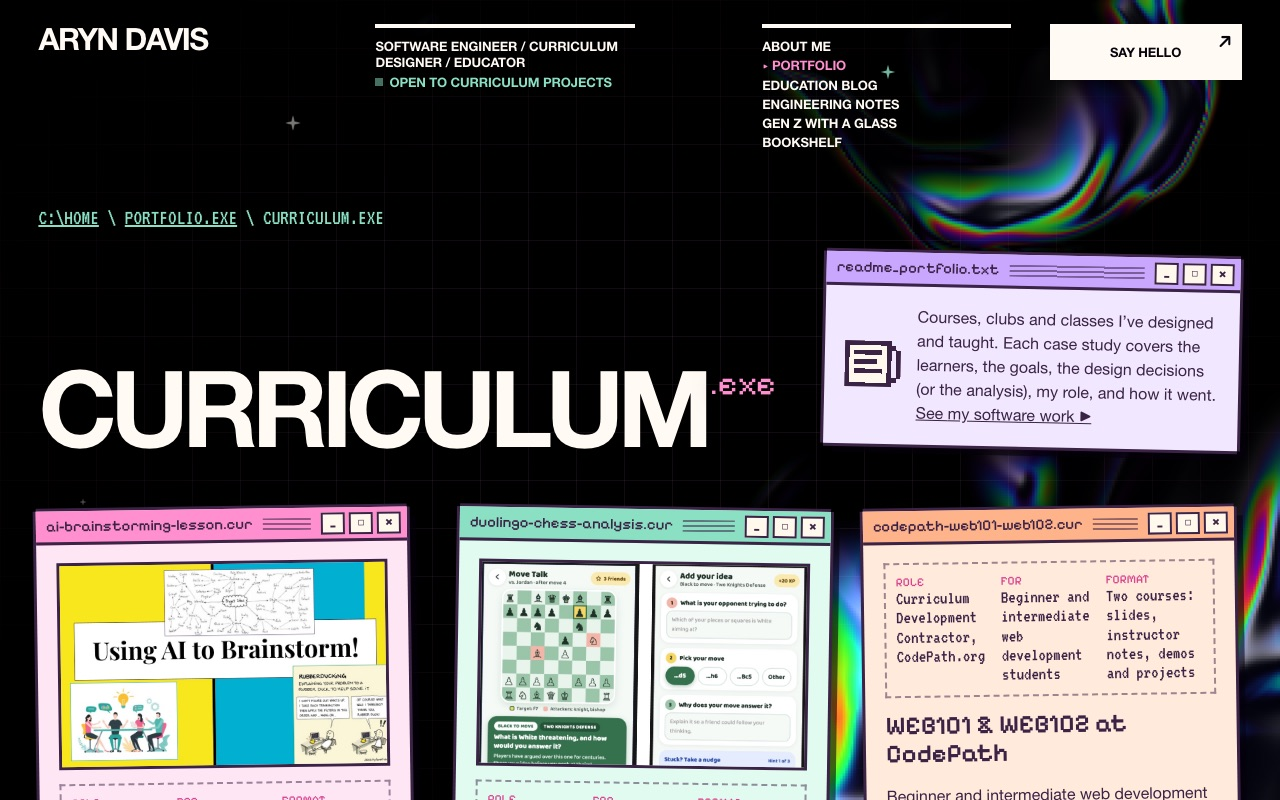
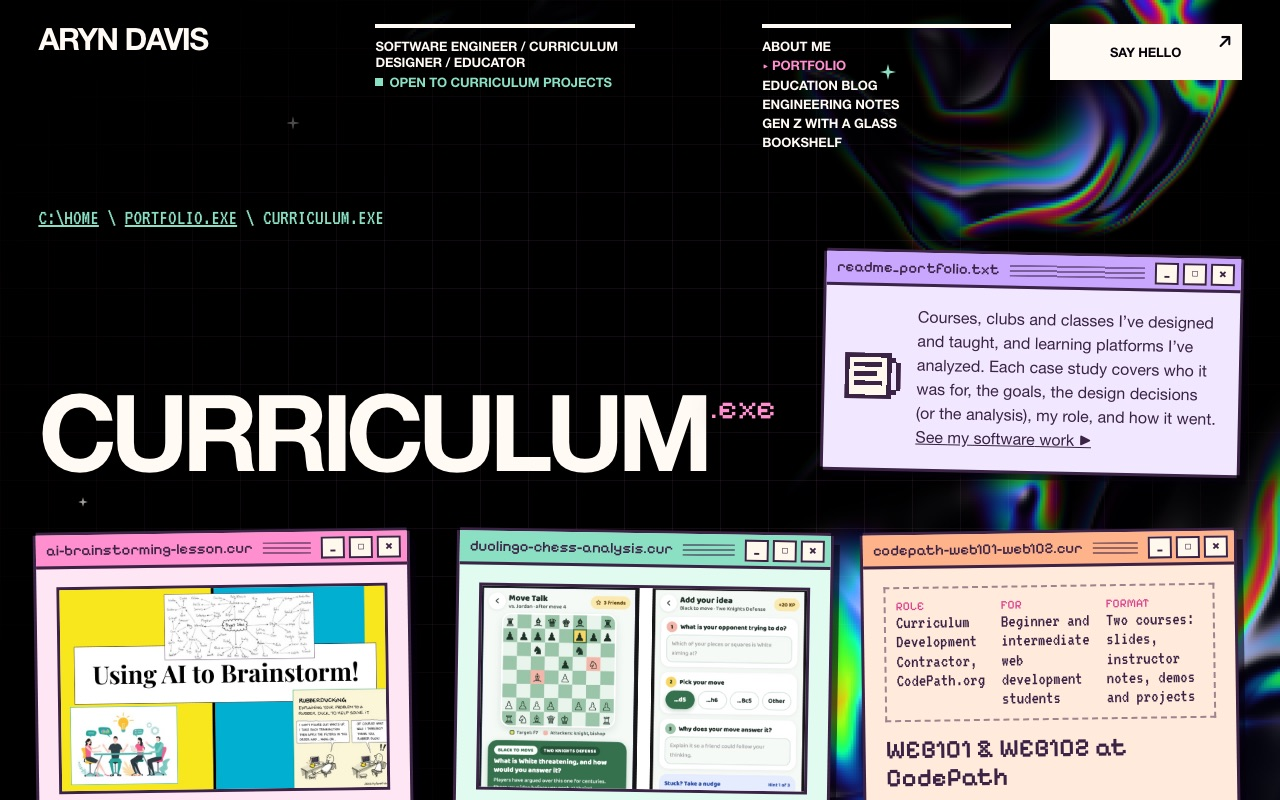
Review fixes: accurate Merrill bullets, cleaner copy, "Latest build"
- Merrill: Application credits the breakout rooms with the brainstorming
  techniques and the independent activity with the AI ones, matching the
  lesson; Problem-centered no longer repeats the brief's market research.
- Duolingo analysis: grammar ("Elo ratings ... place") and the games-tab
  sentence.
- Curriculum folder and page copy include analysis of learning platforms.
- Home: the featured build is the newest project with a live web link (not
  just a PDF), labelled "Latest build".
- README: the outline mentions the analysis variant; retook the home,
  portfolio and curriculum screenshots.

diff --git a/src/content/portfolio.ts b/src/content/portfolio.ts
@@ -211,10 +211,10 @@ export const projects: Project[] = [
       {
         type: 'list',
         items: [
-          'Problem-centered: everything centers on solving a real problem, first a remote company deciding whether to go hybrid, then a new problem of each learner’s choice. The skill itself was chosen for the hardest part of their project, the brief’s market research.',
+          'Problem-centered: everything centers on solving a real problem, first a remote company deciding whether to go hybrid, then a new problem of each learner’s choice.',
           'Activation: learners start with what they already know, like what makes a good brainstorming session and what they’d ask about the problem, before anyone opens an AI tool.',
           'Demonstration: every tip comes with a live prompt example, so learners see a technique in action before they try it.',
-          'Application: the breakout rooms and the independent activity have learners use the techniques themselves, on a new problem.',
+          'Application: learners apply the brainstorming techniques to the shared problem in breakout rooms, then use the AI techniques themselves on a new problem in the independent activity.',
           'Integration: the wrap-up has learners reflect on how they’ll use AI in their own planning and brainstorming going forward.',
         ],
       },
@@ -324,7 +324,7 @@ export const projects: Project[] = [
       },
       {
         type: 'p',
-        text: 'I wrote the social constructivism analysis, drawing on Vygotsky’s zone of proximal development and situated learning. Lessons are well scaffolded, with placement by level and automated characters acting as the more knowledgeable other. But that support disappears in the games tab: there are no hints, and no gradually fading support, against Oscar, friends or anyone else, so a beginner has to figure out real games alone. On the cultural side, Duolingo uses Elo ratings, which places learners in chess’s wider community, but it leaves out etiquette like when to resign or how the clock works in person. That keeps it from working as a community of practice, though adding too much would clash with CTML’s coherence principle and overload novices.',
+        text: 'I wrote the social constructivism analysis, drawing on Vygotsky’s zone of proximal development and situated learning. Lessons are well scaffolded, with placement by level and automated characters acting as the more knowledgeable other. But that support disappears in the games tab: in games against Oscar, friends or anyone else, there are no hints and no gradually fading support, so a beginner has to figure out real games alone. On the cultural side, Duolingo uses Elo ratings, which place learners in chess’s wider community, but it leaves out etiquette like when to resign or how the clock works in person. That keeps it from working as a community of practice, though adding too much would clash with CTML’s coherence principle and overload novices.',
       },
       { type: 'h', text: 'Redesign' },
       {

diff --git a/src/pages/Home.tsx b/src/pages/Home.tsx
@@ -11,8 +11,8 @@ import { school } from '../content/school'
 import { bookshelf, projectPath, sections, site, type SectionKey } from '../site'
 
 const latest = <T extends Entry>(entries: T[], count = 2) => newestFirst(entries).slice(0, count)
-// The featured project is the newest thing I've built that people can open and try (a software project with links).
-const featuredProject = latest(projects.filter((project) => project.track === 'software' && project.links?.length), 1)[0]
+// The featured build is the newest project people can open and try: one with a live web link, not just a PDF.
+const featuredProject = latest(projects.filter((project) => project.links?.some((link) => /^https?:\/\//.test(link.href))), 1)[0]
 
 const inSection = (key: SectionKey) => (entry: Entry) => ({ slug: entry.slug, title: entry.title, path: `${sections[key].path}/${entry.slug}` })
 
@@ -65,7 +65,7 @@ export default function Home() {
               </span>
               <PixelIcon name="star" size={40} />
             </div>
-            <p className="featured-label">▶ Latest project</p>
+            <p className="featured-label">▶ Latest build</p>
             <a className="featured-link" href={href(projectPath(featured))}>
               {featured.title}
             </a>

diff --git a/src/pages/Sections.tsx b/src/pages/Sections.tsx
@@ -129,7 +129,7 @@ export function PortfolioTrackPage({ track, slug }: { track: Track; slug?: strin
       intro={
         <p>
           {curriculum
-            ? 'Courses, clubs and classes I’ve designed and taught. Each case study covers the learners, the goals, the design decisions (or the analysis), my role, and how it went.'
+            ? 'Courses, clubs and classes I’ve designed and taught, and learning platforms I’ve analyzed. Each case study covers who it was for, the goals, the design decisions (or the analysis), my role, and how it went.'
             : 'Things I’ve designed and built, most with a live demo and the code on GitHub.'}{' '}
           <a href={href(portfolioTracks[curriculum ? 'software' : 'curriculum'].path)}>See {curriculum ? 'my software' : 'my curriculum design'} work ▶</a>
         </p>

diff --git a/src/site.ts b/src/site.ts
@@ -96,7 +96,7 @@ export const portfolioTracks: Record<Track, { path: string; label: string; file:
     path: '/portfolio/curriculum',
     label: 'Curriculum design',
     file: 'curriculum.exe',
-    blurb: 'Courses, clubs and classes I’ve designed and taught, from middle school coding clubs to adult cohorts.',
+    blurb: 'Courses, clubs and classes I’ve designed and taught, from middle school coding clubs to adult cohorts, plus analysis of learning platforms.',
   },
   software: {
     path: '/portfolio/software',

diff --git a/README.md b/README.md
@@ -65,7 +65,7 @@ Every project and post has its own address (for example `/portfolio/software/ary
 
 - **Name, email, tagline:** `src/site.ts`
 - **About me text:** `src/pages/Home.tsx`
-- **Portfolio projects** (`src/content/portfolio.ts`) have a `track`: `'curriculum'` or `'software'`, which decides their page (`/portfolio/curriculum` or `/portfolio/software`). Track names and blurbs are in `portfolioTracks` in `src/site.ts`. Each track lists its projects in the order they appear in `portfolio.ts`, so move an entry up or down to reorder it. Curriculum case studies follow one outline: who it was for, goals, design decisions (ADDIE), my role, and how it went. Projects can add a `cover` image for the card and `links` (live site, code, or a file like a slide deck) as buttons in the pop-up. Put images in `public/images/portfolio/` and downloadable files (PDFs) in `public/files/`, linked as `/files/name.pdf`.
+- **Portfolio projects** (`src/content/portfolio.ts`) have a `track`: `'curriculum'` or `'software'`, which decides their page (`/portfolio/curriculum` or `/portfolio/software`). Track names and blurbs are in `portfolioTracks` in `src/site.ts`. Each track lists its projects in the order they appear in `portfolio.ts`, so move an entry up or down to reorder it. Curriculum case studies follow one outline: who it was for, goals, design decisions (ADDIE), my role, and how it went. An analysis of someone else's design (like the Duolingo Chess paper) has "The analysis" and "Redesign" in place of design decisions. Projects can add a `cover` image for the card and `links` (live site, code, or a file like a slide deck) as buttons in the pop-up. Put images in `public/images/portfolio/` and downloadable files (PDFs) in `public/files/`, linked as `/files/name.pdf`.
 - **Projects and posts:** add an object to the array in the matching `src/content/*.ts` file. Bodies are lists of blocks (`p`, `h`, `list`, `quote`, `image`, `code`); see `src/content/types.ts`. Content is rendered as text, never as raw HTML.
 - **Engineering notes posts** (`src/content/engineeringNotes.ts`) can show code: put each sample in its own file under `src/content/engineering-notes/<post>/` and import it with `?raw`, so it's shown exactly as written. Inline code in a paragraph is `{ text: 'wine help', code: true }`. Never put a real phone number, token or account ID in a post.
 - **Books:** add or move books in `src/content/books.ts`. Set `status` to `'reading'` (shown face-out and on the home page's currently.txt), `'read'` or `'want'`, and pick a spine `color`. `rating` and `note` are optional.
